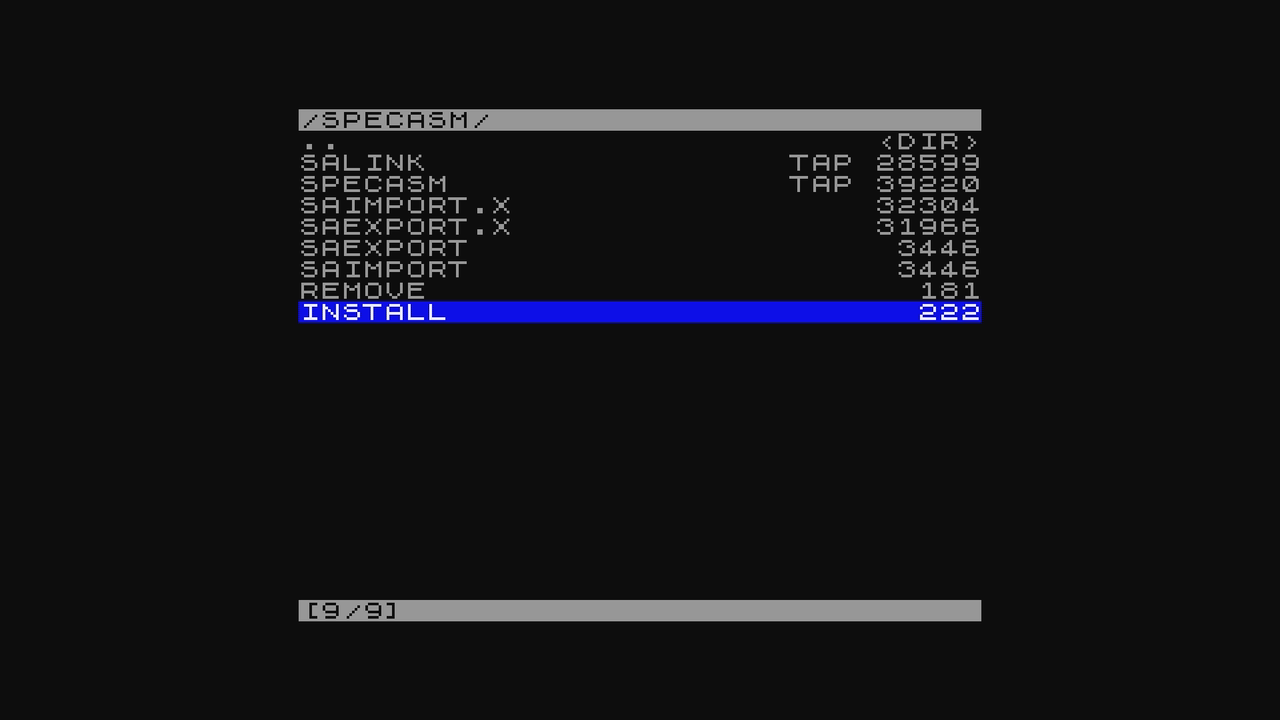
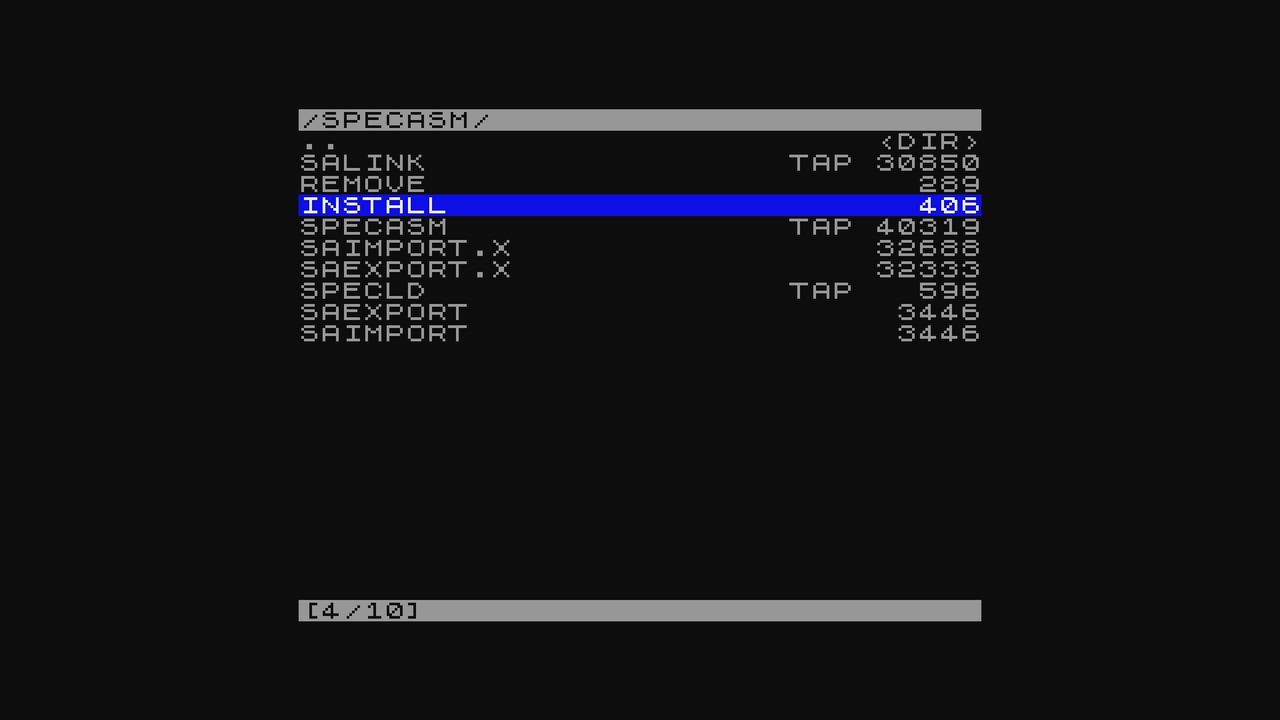
Update the README.md for v2 of Specasm
Refresh the pictures and update the installation and building instructions.

Changed region(s): [[0.2188, 0.2139, 0.7812, 0.4889], [0.25, 0.825, 0.3438, 0.8556]]

diff --git a/README.md b/README.md
@@ -10,17 +10,14 @@ Download the latest release of Specasm, and unzip the contents of the file into 
 
 Now navigate to the INSTALL file, which is a BASIC program, and press **ENTER** to execute it.  This will use ESXDOS's **.launcher** command to set up some command line short cuts for the tap files in the SPECASM directory.
 
-You may noticed from the screenshot that there are some other files in the SPECASM folder, namely two dotx commands called saimport and saexport.  These commands allow you to convert between Specasm's internal file format, .x files, and assembly language text files, .s files.  I couldn't work out how to install these dotx commands cleanly in BASIC so this needs to be done manually.
+## Reinstalling Specasm
 
-```
-.mkdir /bin/extra
-.cp SAIMPORT /bin
-.cp SAIMPORT.X /bin/extra/SAIMPORT.X
-.cp SAEXPORT /bin
-.cp SAEXPORT.X /bin/extra/SAEXPORT.X
-```
+To upgrade to a new version of Specasm perform the following steps.
 
-Note this step is optional and only necessary if you need to convert between .x and .s files on the spectrum itself.
+1. Manually remove the old /Specasm directory on your SD card, e.g., rm -rf /Specasm
+2. Download the latest release and unzip its contents to /Specasm on the SD card
+3. Execute the REMOVE BASIC program.  This can be done from the ESXDOS file browser or by loading it from the BASIC prompt.  This will remove the old version of Specasm stored under the /bin folder, and will also de-register the old **.launcher** shortcuts.
+4. Run the INSTALL BASIC program.  This will install the new version of Specasm.
 
 ## Assembling your First Program
 
@@ -69,7 +66,7 @@ Specasm is built with [z88dk](https://github.com/z88dk/z88dk) and GNU Make.  Ins
 
 ```
 cd build
-make -j -f Makefile.spec
+make -j
 ```
 
 And then wait.   All the tap and dotx files will be created in the build directory.
